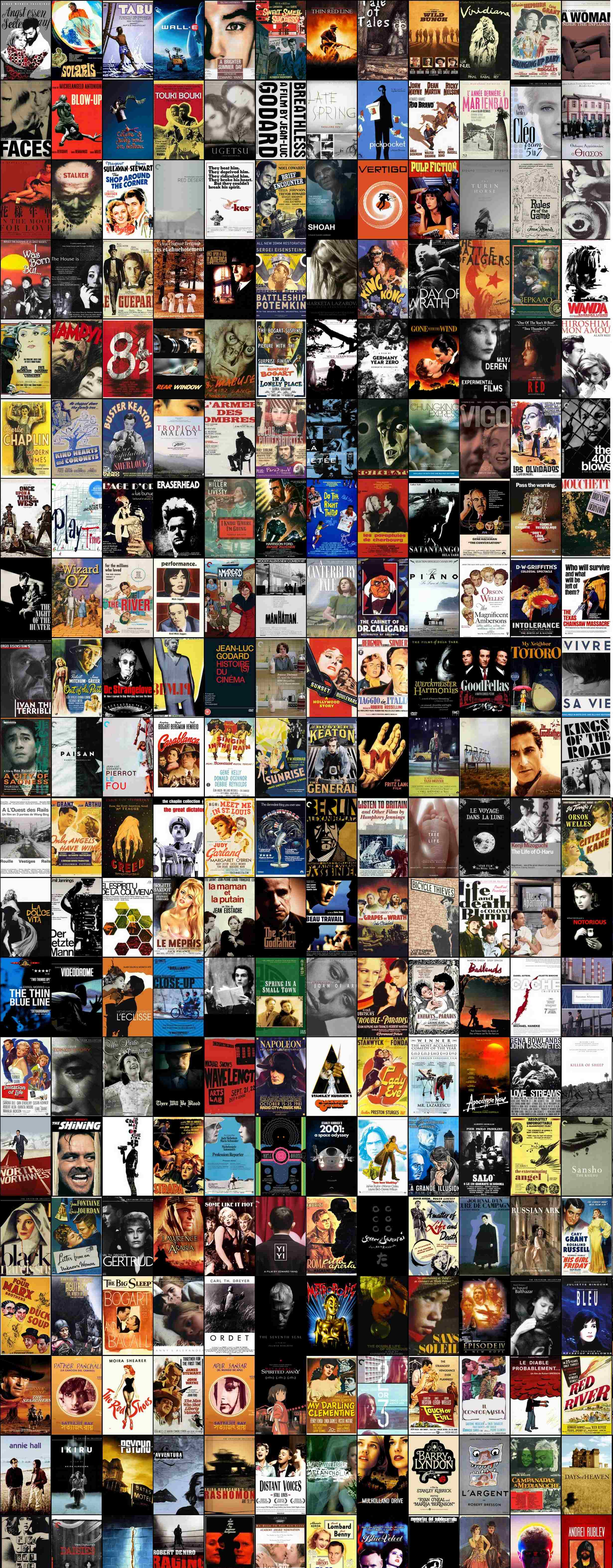
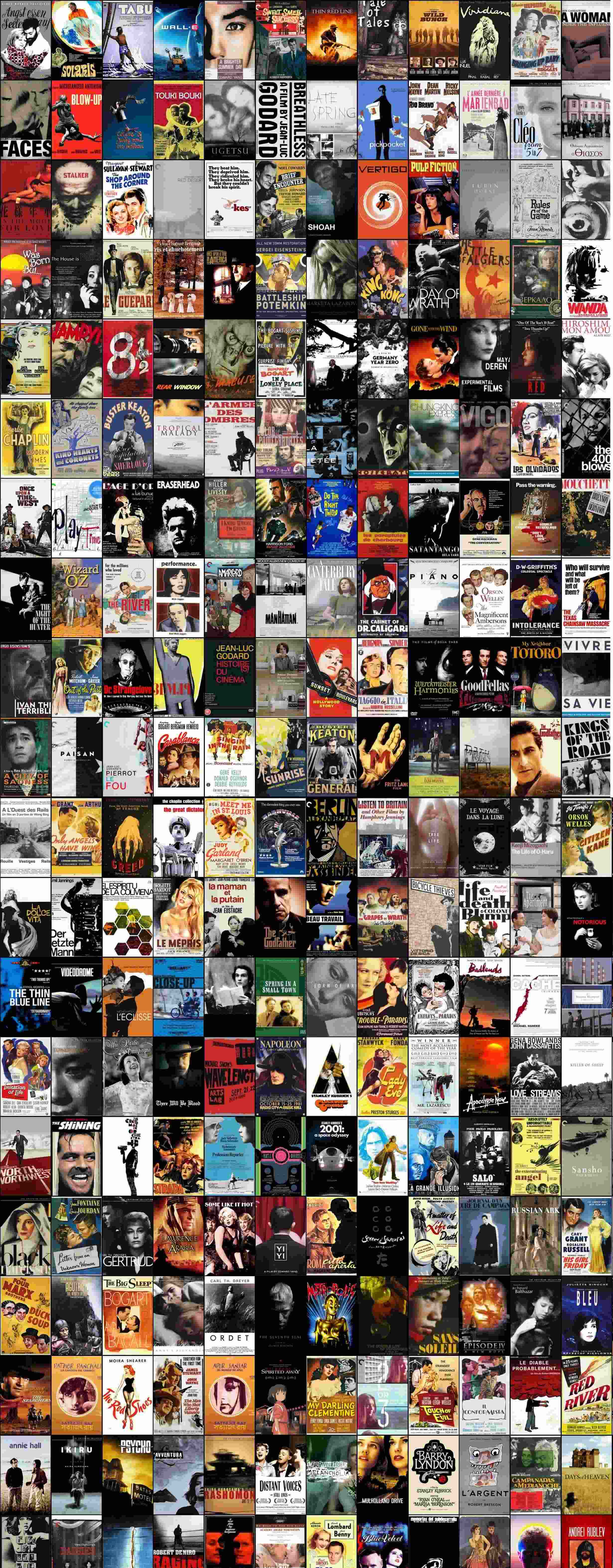
Final changes
-Smaller background poster
-Title for page
-Added 'share' links

diff --git a/MovieBrowser.html b/MovieBrowser.html
@@ -1,6 +1,7 @@
 <!DOCTYPE html>
 <html>
 <head>
+<title>MovieBrowser</title>
 <meta name="description" content="MovieBrowser">
 <meta name="keywords" content="Movie,Browser,IMDB,Hard drive">
 <meta name="author" content="Sampreet Sharma">
@@ -506,8 +507,11 @@
 			Now browse your local drive movies based on IMDB Rating, Genre, Actors and Director.</br>
 			Select your movie folder, wait and it will do its best to recognize and categorize your movie collection using omdbapi.com</br>
 			Liked it? Share it!
-			<div class="fb-share-button" data-href="http://ingag.in/" data-type="button_count"></div>
-			<a href="http://ingag.in" class="twitter-share-button" data-via="twitterapi" data-lang="en">Tweet</a>
+		</div>
+		</br>
+		<div>
+			<div class="fb-share-button" data-href="http://buildagain.github.io/MovieBrowser.html" data-type="button_count"></div>
+			<a href="http://buildagain.github.io/MovieBrowser.html" class="twitter-share-button" data-via="twitterapi" data-lang="en">Tweet</a>
 			<!-- G+ Share Button -->
 			<div class="g-plusone" data-size="tall" data-annotation="inline" data-width="300"></div>
 			<script type="text/javascript">
